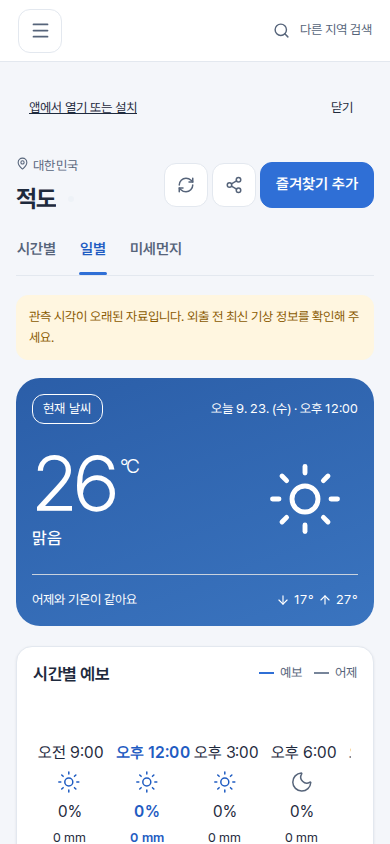
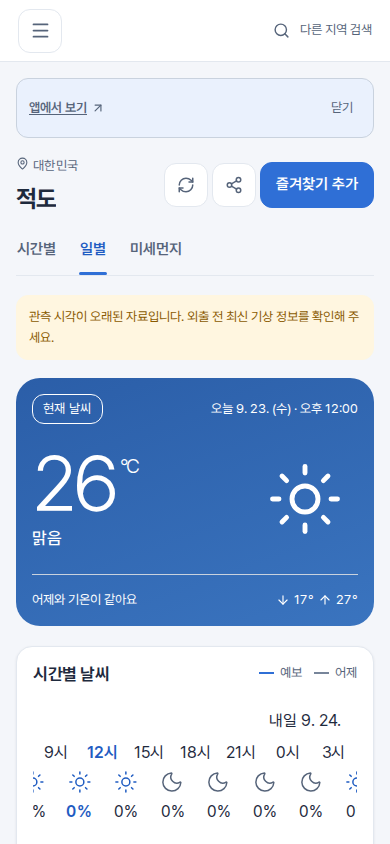
fix(web): address PR #3155 review findings for the app bar, QR and link previews
- Choose the app prompt by User-Agent, not viewport width. A narrow desktop
  window no longer gets an "Open in app" link that resolves back to the web
  app, and the installed PWA no longer prompts on every launch
  (appPromptFor, unit and E2E tests).
- Drop the static og:url so crawlers following a deep-link 302 do not
  canonicalize every shared place to the home page.
- Render the 41-module QR at 123 CSS px (3 px per module) instead of 112 px,
  keeping module widths even on 1x displays.
- State that the Smart App Banner's route-following app-argument is best
  effort, to be checked on devices in #3098.
- Regenerate the browser user guide screenshot and PDF with the new label.

diff --git a/web/index.html b/web/index.html
@@ -1,1 +1,1 @@
-<!doctype html><html lang="ko"><head><meta charset="UTF-8"/><meta name="viewport" content="width=device-width, initial-scale=1.0, viewport-fit=cover"/><meta name="theme-color" content="#f5f7fb"/><meta name="description" content="어제와 비교하는 오늘의 날씨. 시간별 예보와 미세먼지, 관심지역을 한눈에 확인하세요."/><meta property="og:type" content="website"/><meta property="og:site_name" content="TodayWeather"/><meta property="og:title" content="오늘날씨 · TodayWeather"/><meta property="og:description" content="어제와 비교하는 오늘의 날씨. 시간별 예보와 미세먼지, 관심지역을 한눈에 확인하세요."/><meta property="og:url" content="https://app.todayweather.ai/"/><meta property="og:image" content="https://app.todayweather.ai/icons/icon-512.png"/><meta name="twitter:card" content="summary"/><meta name="apple-itunes-app" content="app-id=1041700694, app-argument=https://link.todayweather.ai/open"/><link rel="icon" href="/icon.svg" type="image/svg+xml"/><link rel="manifest" href="/manifest.webmanifest"/><link rel="apple-touch-icon" href="/icons/icon-192.png"/><title>오늘날씨 · TodayWeather</title><script src="/theme.js"></script></head><body><div id="root"></div><script type="module" src="/src/main.tsx"></script></body></html>
+<!doctype html><html lang="ko"><head><meta charset="UTF-8"/><meta name="viewport" content="width=device-width, initial-scale=1.0, viewport-fit=cover"/><meta name="theme-color" content="#f5f7fb"/><meta name="description" content="어제와 비교하는 오늘의 날씨. 시간별 예보와 미세먼지, 관심지역을 한눈에 확인하세요."/><meta property="og:type" content="website"/><meta property="og:site_name" content="TodayWeather"/><meta property="og:title" content="오늘날씨 · TodayWeather"/><meta property="og:description" content="어제와 비교하는 오늘의 날씨. 시간별 예보와 미세먼지, 관심지역을 한눈에 확인하세요."/><meta property="og:image" content="https://app.todayweather.ai/icons/icon-512.png"/><meta name="twitter:card" content="summary"/><meta name="apple-itunes-app" content="app-id=1041700694, app-argument=https://link.todayweather.ai/open"/><link rel="icon" href="/icon.svg" type="image/svg+xml"/><link rel="manifest" href="/manifest.webmanifest"/><link rel="apple-touch-icon" href="/icons/icon-192.png"/><title>오늘날씨 · TodayWeather</title><script src="/theme.js"></script></head><body><div id="root"></div><script type="module" src="/src/main.tsx"></script></body></html>

diff --git a/web/e2e/deeplink.spec.ts b/web/e2e/deeplink.spec.ts
@@ -1,7 +1,10 @@
 import { test, expect } from "./fixtures";
 
+const IPHONE_UA =
+  "Mozilla/5.0 (iPhone; CPU iPhone OS 18_0 like Mac OS X) AppleWebKit/605.1.15 (KHTML, like Gecko) Version/18.0 Mobile/15E148 Safari/604.1";
+
 test.describe("shared location", () => {
-  test.use({ viewport: { width: 390, height: 844 } });
+  test.use({ viewport: { width: 390, height: 844 }, userAgent: IPHONE_UA });
 
   test("previews coordinates, dismisses the app action, and saves explicitly", async ({
     page,
@@ -160,5 +163,32 @@ test.describe("desktop QR and default link preview metadata", () => {
       "content",
       "오늘날씨 · TodayWeather",
     );
+    // A static og:url would canonicalize every shared place to the home page.
+    await expect(page.locator('meta[property="og:url"]')).toHaveCount(0);
+  });
+
+  test("a narrow desktop window shows neither the app bar nor the QR card", async ({
+    page,
+  }) => {
+    await page.setViewportSize({ width: 390, height: 844 });
+    await page.goto("/weather/seoul/daily");
+    await expect(page.getByRole("heading", { name: "서울" })).toBeVisible();
+    await expect(page.locator(".link-arrival")).toHaveCount(0);
+    await expect(page.locator(".app-qr-card")).toHaveCount(0);
+  });
+
+  test("the installed PWA does not show the app bar", async ({ browser }) => {
+    const context = await browser.newContext({
+      viewport: { width: 390, height: 844 },
+      userAgent: IPHONE_UA,
+    });
+    await context.addInitScript(() => {
+      Object.defineProperty(navigator, "standalone", { value: true });
+    });
+    const page = await context.newPage();
+    await page.goto("/weather/seoul/daily");
+    await expect(page.getByRole("heading", { name: "서울" })).toBeVisible();
+    await expect(page.locator(".link-arrival")).toHaveCount(0);
+    await context.close();
   });
 });

diff --git a/web/src/App.tsx b/web/src/App.tsx
@@ -79,6 +79,7 @@ import WeatherPage from "./Weather";
 import { AppQrCode } from "./AppQrCode";
 import {
   appOpenHref,
+  appPromptFor,
   canonicalLinkForRoute,
   detectMobilePlatform,
   linkedWeatherPath,
@@ -700,16 +701,22 @@ export default function App() {
 const LINK_BANNER_DISMISSED = "tw.web.v1.link-banner-dismissed";
 const IOS_APP_ID = "1041700694";
 
-function isMobileClient(compact: boolean) {
+function runsAsInstalledApp() {
   return (
-    compact ||
-    detectMobilePlatform(navigator.userAgent, navigator.maxTouchPoints) !==
-      "desktop"
+    window.matchMedia?.("(display-mode: standalone)").matches === true ||
+    (navigator as Navigator & { standalone?: boolean }).standalone === true
+  );
+}
+
+function appPrompt(compact: boolean) {
+  return appPromptFor(
+    detectMobilePlatform(navigator.userAgent, navigator.maxTouchPoints),
+    { compact, standalone: runsAsInstalledApp() },
   );
 }
 
 function DesktopAppQrCard({ compact }: { compact: boolean }) {
-  if (isMobileClient(compact)) return null;
+  if (appPrompt(compact) !== "qr") return null;
   return (
     <div className="app-qr-card" aria-label={t("link.qrTitle")}>
       <div className="app-qr-frame">
@@ -747,8 +754,7 @@ function LinkArrivalBanner({ compact }: { compact: boolean }) {
       );
     }
   }, [canonicalUrl]);
-  const mobile = isMobileClient(compact);
-  if (!mobile || dismissed) return null;
+  if (appPrompt(compact) !== "bar" || dismissed) return null;
   const href = appOpenHref(
     canonicalUrl,
     navigator.userAgent,

diff --git a/web/test/deeplink.test.ts b/web/test/deeplink.test.ts
@@ -5,6 +5,7 @@ import {
   FIXED_APP_QR_URL,
   PLAY_STORE_URL,
   appOpenHref,
+  appPromptFor,
   canonicalLinkForRoute,
   detectMobilePlatform,
   nearbySaved,
@@ -276,5 +277,19 @@ describe("web deep-link contract", () => {
     const bytes = new Uint8Array(len);
     for (let i = 0; i < len; i++) bytes[i] = readBits(12 + i * 8, 8);
     expect(new TextDecoder().decode(bytes)).toBe(FIXED_APP_QR_URL);
+  });
+
+  it("offers the app bar only to mobile browsers and the QR only to wide desktop windows", () => {
+    const tab = { compact: false, standalone: false };
+    expect(appPromptFor("android", { ...tab, compact: true })).toBe("bar");
+    expect(appPromptFor("ios", { ...tab, compact: true })).toBe("bar");
+    expect(appPromptFor("ipados", tab)).toBe("bar");
+    expect(appPromptFor("mobile", { ...tab, compact: true })).toBe("bar");
+    expect(appPromptFor("desktop", tab)).toBe("qr");
+    // A narrow desktop window must not get a store link that resolves back to the web app.
+    expect(appPromptFor("desktop", { ...tab, compact: true })).toBe("none");
+    // The installed PWA must not nag on every launch.
+    expect(appPromptFor("ios", { compact: true, standalone: true })).toBe("none");
+    expect(appPromptFor("android", { compact: true, standalone: true })).toBe("none");
   });
 });

diff --git a/web/src/deeplink.ts b/web/src/deeplink.ts
@@ -136,6 +136,23 @@ export function detectMobilePlatform(
   return "desktop";
 }
 
+export type AppPrompt = "bar" | "qr" | "none";
+
+/**
+ * Mobile browsers get the "Open in app" bar, wide desktop windows get the
+ * fixed store QR. A narrow desktop window gets neither: its store link would
+ * resolve back to the web app. The installed PWA gets neither, so it does not
+ * prompt on every launch.
+ */
+export function appPromptFor(
+  platform: MobilePlatform,
+  { compact, standalone }: { compact: boolean; standalone: boolean },
+): AppPrompt {
+  if (standalone) return "none";
+  if (platform !== "desktop") return "bar";
+  return compact ? "none" : "qr";
+}
+
 function decodeSegment(segment: string) {
   try {
     return decodeURIComponent(segment);

diff --git a/web/src/style.css b/web/src/style.css
@@ -251,9 +251,10 @@ small {
   margin-bottom: 10px;
 }
 .app-qr-svg {
+  /* 41 modules at 3 CSS px each, so every module keeps the same width. */
   display: block;
-  width: 112px;
-  height: 112px;
+  width: 123px;
+  height: 123px;
 }
 .app-qr-card strong {
   font-size: max(var(--tw-type-label-size), var(--font-floor));

diff --git a/specs/deeplink.md b/specs/deeplink.md
@@ -151,14 +151,15 @@ Modeled on [infra/web/static/stack.json](../infra/web/static/stack.json): privat
 2. **Existing `/place/:publicId` route enhancement:**
    - Support optional `view` (`hourly`/`daily`/`air`) and `pollutant` query parameters while preserving current behavior when absent.
 3. **Mobile "Open in app" (`앱에서 보기`) action & iOS Smart App Banner:**
-   - On mobile web visitors (dismissible per browser session via `sessionStorage`), display a slim top bar offering **"앱에서 보기"** ("Open in app") that targets the **current screen's canonical `link.todayweather.ai` URL** (preserving place, coordinates, view, and air pollutant rather than hard-coding `/open`):
+   - On mobile web visitors, identified by a mobile User-Agent (or iPadOS touch Macintosh), not by viewport width, display a slim top bar offering **"앱에서 보기"** ("Open in app") that targets the **current screen's canonical `link.todayweather.ai` URL** (preserving place, coordinates, view, and air pollutant rather than hard-coding `/open`):
      - **Android:** `intent://link.todayweather.ai/{pathAndQuery}#Intent;scheme=https;package=net.wizardfactory.todayweather;S.browser_fallback_url=<encoded Google Play URL>;end` (launches the installed app on the current screen, or falls back directly to Google Play if uninstalled).
      - **iOS / iPadOS:** `https://link.todayweather.ai/{pathAndQuery}?fallback=store` (appending `&store=ios` when desktop-class iPadOS Safari reports a Macintosh User-Agent). In Safari, Universal Links open the installed app on the current screen and uninstalled devices receive `302` to the App Store. Because iOS does not expose app installation state to web pages, in-app browsers that suppress Universal Links redirect to the App Store (where installed users see "Open" with no error popup, though the place context is not carried across the Store).
-   - Include `<meta name="apple-itunes-app" content="app-id=1041700694, app-argument=https://link.todayweather.ai/...">` in [web/index.html](../web/index.html) and keep `app-argument` synchronized with the current route's canonical deep link for Safari's native Smart App Banner.
+   - Include `<meta name="apple-itunes-app" content="app-id=1041700694, app-argument=https://link.todayweather.ai/...">` in [web/index.html](../web/index.html) and update `app-argument` to the current route's canonical deep link for Safari's native Smart App Banner. Safari may read the meta only at page load, so route-preserving behavior of the native banner is best effort and is verified on devices in #3098; the custom bar is the guaranteed route-preserving action.
+   - Hide the bar in the installed PWA (`display-mode: standalone` or `navigator.standalone`) and on narrow desktop windows, where a store fallback would only resolve back to the web app. The bar is dismissible per browser session via `sessionStorage`.
 4. **Desktop fixed QR code:**
-   - On desktop browsers (hidden on mobile/compact viewports), render a scannable static SVG QR code in the sidebar encoding the fixed URL `https://link.todayweather.ai/open?fallback=store`. Scanning with a phone camera opens the installed mobile app directly or redirects to App Store (iOS) / Google Play (Android) automatically.
+   - On desktop browsers with a non-compact viewport (hidden on mobile User-Agents, compact viewports and the installed PWA), render a scannable static SVG QR code in the sidebar encoding the fixed URL `https://link.todayweather.ai/open?fallback=store`. Scanning with a phone camera opens the installed mobile app directly or redirects to App Store (iOS) / Google Play (Android) automatically.
 5. **Default Open Graph metadata ([web/index.html](../web/index.html)):**
-   - Include static `og:type`, `og:site_name`, `og:title`, `og:description`, `og:url`, `og:image` (`https://app.todayweather.ai/icons/icon-512.png`), and `twitter:card` so link previews render cleanly when crawlers follow `302` redirects from `link.todayweather.ai`.
+   - Include static `og:type`, `og:site_name`, `og:title`, `og:description`, `og:image` (`https://app.todayweather.ai/icons/icon-512.png`), and `twitter:card` so link previews render cleanly when crawlers follow `302` redirects from `link.todayweather.ai`. Omit `og:url`: a static root value would make crawlers canonicalize every shared place to the home page.
 6. **Unified share URL generation ([web/src/Weather.tsx](../web/src/Weather.tsx)):**
    - Sharing a catalog city generates the view-specific URL defined in §7, including `/air/{slug}` from the Air tab.
    - Sharing a non-catalog place generates `https://link.todayweather.ai/loc?lat={roundedLat}&lon={roundedLon}&name={encodedName}` (using 3-decimal coordinate rounding; current GPS location applies the privacy rule in §2.1).

diff --git a/docs/architecture/web-client.md b/docs/architecture/web-client.md
@@ -32,7 +32,7 @@ Geocode results are named like the app: `name`, else the `getShortenAddress` tok
 
 CloudFront and the service worker recognize `/loc`. The PWA validates coordinates, rounds them to three decimals, and accepts an optional plain-text name and a requested weather view. A saved place within `0.01°` on both axes wins over a catalog match within `0.04°`. With neither match, the regular weather screen renders a preview without persisting the place or a weather snapshot. **Add to favorites** uses the existing 30-place limit and opens the saved place on the current view. Invalid coordinates link back to the Locations page.
 
-Mobile browsers display a dismissible "Open in app" (`앱에서 보기`) bar whose target preserves the current screen's canonical `link.todayweather.ai` URL: Android uses an `intent://` URI with a Google Play fallback, while iOS/iPadOS uses `?fallback=store` (plus a route-synchronized `apple-itunes-app` Smart App Banner). Desktop browsers hide that bar and display a sidebar QR card encoding the fixed URL `https://link.todayweather.ai/open?fallback=store` so mobile cameras jump directly to the app or OS-matched store. `web/index.html` carries default Open Graph metadata and preview image (`https://app.todayweather.ai/icons/icon-512.png`). The catalog landing route accepts a view query, and Air keeps its selected pollutant in the URL so sharing preserves the selection. Sharing uses `link.todayweather.ai` with a catalog route when possible and otherwise emits a rounded coordinate link. See the [request sequence](diagrams/web-deeplink.html) and its [source](diagrams/web-deeplink.json), or the [browser user guide](../user/deeplink-web/manual.pdf).
+Mobile browsers (by User-Agent, excluding the installed PWA) display a dismissible "Open in app" (`앱에서 보기`) bar whose target preserves the current screen's canonical `link.todayweather.ai` URL: Android uses an `intent://` URI with a Google Play fallback, while iOS/iPadOS uses `?fallback=store` (plus an `apple-itunes-app` Smart App Banner whose `app-argument` follows the route on a best-effort basis). Wide desktop windows hide that bar and display a sidebar QR card encoding the fixed URL `https://link.todayweather.ai/open?fallback=store` so mobile cameras jump directly to the app or OS-matched store. `web/index.html` carries default Open Graph metadata and preview image (`https://app.todayweather.ai/icons/icon-512.png`). The catalog landing route accepts a view query, and Air keeps its selected pollutant in the URL so sharing preserves the selection. Sharing uses `link.todayweather.ai` with a catalog route when possible and otherwise emits a rounded coordinate link. See the [request sequence](diagrams/web-deeplink.html) and its [source](diagrams/web-deeplink.json), or the [browser user guide](../user/deeplink-web/manual.pdf).
 
 ## Languages
 
